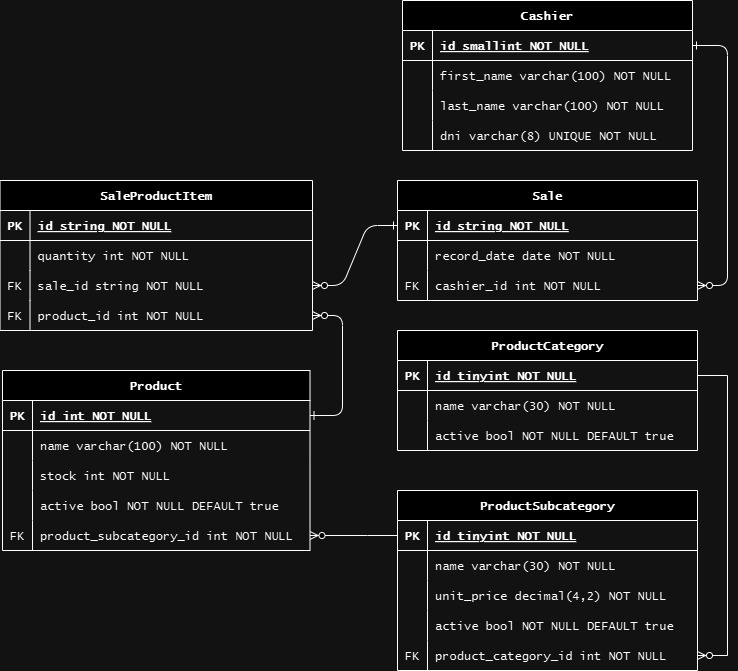
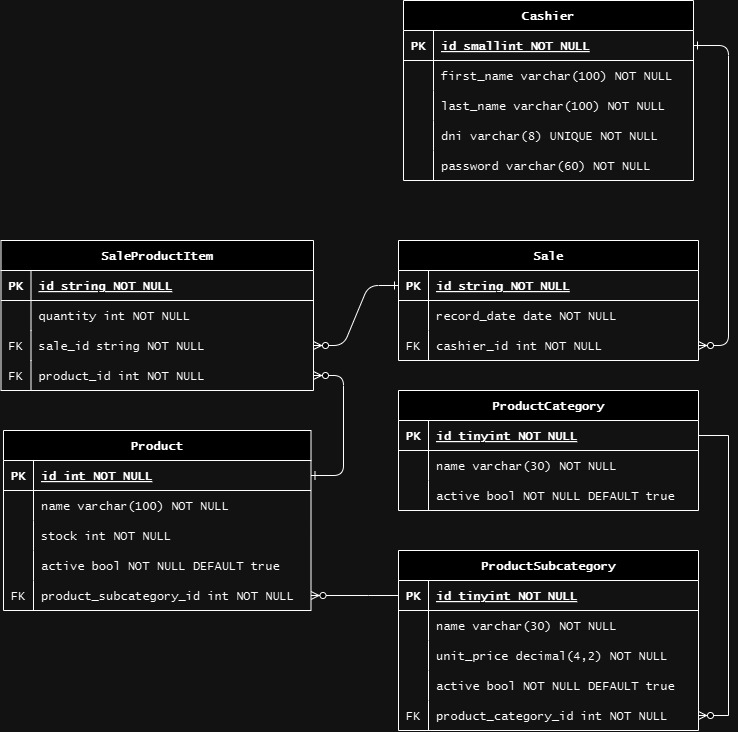
Agregando documentación de la api

diff --git a/src/migrations/1722281006973-InsertProducts.ts b/src/migrations/1722281006973-InsertProducts.ts
@@ -4,8 +4,6 @@ import Product from "../shared/infrastructure/persistence/entities/Product.entit
 export class Products1722281006973 implements MigrationInterface {
 
 	public async up(queryRunner: QueryRunner): Promise<void> {
-		const movieCategory = { id: 1 };
-		const videogameCategory = { id: 2 };
 		const dvdSubcategory = { id: 1 };
 		const bluraySubcategory = { id: 2 };
 		const ps1Subcategory = { id: 3 };
@@ -18,105 +16,90 @@ export class Products1722281006973 implements MigrationInterface {
 				id: 1,
 				name: "Crash Bandicoot",
 				stock: 17,
-				category: videogameCategory,
 				subcategory: ps1Subcategory
 			},
 			{
 				id: 2,
 				name: "God of war II",
 				stock: 12,
-				category: videogameCategory,
 				subcategory: ps2Subcategory
 			},
 			{
 				id: 3,
 				name: "Super Smash Bross Brawl",
 				stock: 8,
-				category: videogameCategory,
 				subcategory: wiiSubcategory
 			},
 			{
 				id: 4,
 				name: "Transformers",
 				stock: 10,
-				category: movieCategory,
 				subcategory: dvdSubcategory
 			},
 			{
 				id: 5,
 				name: "Shrek",
 				stock: 8,
-				category: movieCategory,
 				subcategory: bluraySubcategory
 			},
 			{
 				id: 6,
 				name: "Naruto Shippuden Ultimate Ninja Storm 3",
 				stock: 10,
-				category: videogameCategory,
 				subcategory: ps3Subcategory
 			},
 			{
 				id: 7,
 				name: "Naruto Shippuden Ultimate Ninja Storm 2",
 				stock: 13,
-				category: videogameCategory,
 				subcategory: xbox360Subcategory
 			},
 			{
 				id: 8,
 				name: "DBZ Saga de Cell",
 				stock: 13,
-				category: movieCategory,
 				subcategory: dvdSubcategory
 			},
 			{
 				id: 9,
 				name: "Kingdom Hearts",
 				stock: 18,
-				category: videogameCategory,
 				subcategory: ps2Subcategory
 			},
 			{
 				id: 10,
 				name: "Transformers",
 				stock: 7,
-				category: movieCategory,
 				subcategory: bluraySubcategory
 			},
 			{
 				id: 11,
 				name: "Batman: Arkham City",
 				stock: 9,
-				category: videogameCategory,
 				subcategory: ps3Subcategory
 			},
 			{
 				id: 12,
 				name: "God of War I",
 				stock: 14,
-				category: videogameCategory,
 				subcategory: ps2Subcategory
 			},
 			{
 				id: 13,
 				name: "Dragon Ball Z Budokai Tenkaichi 3",
 				stock: 15,
-				category: videogameCategory,
-				subcategory: ps1Subcategory
+				subcategory: ps2Subcategory
 			},
 			{
 				id: 14,
 				name: "Naruto Ultimate Ninja Storm 3",
 				stock: 11,
-				category: videogameCategory,
 				subcategory: ps3Subcategory
 			},
 			{
 				id: 15,
 				name: "Mario Party 9",
 				stock: 25,
-				category: videogameCategory,
 				subcategory: wiiSubcategory
 			}
 		]);

diff --git a/src/migrations/1722278685381-InsertCashiers.ts b/src/migrations/1722278685381-InsertCashiers.ts
@@ -8,13 +8,17 @@ export class Cashiers1722278685381 implements MigrationInterface {
 				id: 1,
 				firstName: "Ausubel",
 				lastName: "Velasquez",
-				dni: "85900893"
+				dni: "85900893",
+				//password = avelasquez123
+				password: "$2a$12$i2jw.eJl9h665fC51kV2y.t401Mayf7L28ORKTplaqKNUW3b03x2e"
 			},
 			{
 				id: 2,
 				firstName: "Jose",
 				lastName: "Casma",
-				dni: "75958521"
+				dni: "75958521",
+				//password = jcasma123
+				password: "$2a$12$x19kmL3KjHxARoh/R75JD.YnICVOTSTMPHXgsz8H1FffAz6Kp4s7W"
 			}
 		]);
 	}

diff --git a/src/shared/infrastructure/persistence/entities/Cashier.entity.ts b/src/shared/infrastructure/persistence/entities/Cashier.entity.ts
@@ -25,4 +25,10 @@ export default class Cashier {
 		length: 8
 	})
 	public dni: string;
+
+	@Column({
+		type: "varchar",
+		length: 60
+	})
+	public password: string;
 }

diff --git a/api_docs.md b/api_docs.md
@@ -1,0 +1,245 @@
+# Documentación de la API
+
+## Autenticación
+
+```js
+POST /auth/login
+```
+Autentica al cajero en el sistema.
+
+* Request
+```json
+{
+	"dni": "85900893",
+	"password": "$2a$12$i2jw.eJl9h665fC51kV2y.t401Mayf7L28ORKTplaqKNUW3b03x2e"
+}
+```
+* Response (Autenticado)
+```json
+{
+	"message": "success",
+	"data": {
+		"user": {
+			"id": 1,
+			"firstName": "Ausubel",
+			"lastName": "Velasquez",
+			"dni": "85900893"
+		},
+		"token": "eyJhbGciOiJIUzI1NiIsInR5cCI6IkpXVCJ9.eyJzdWIiOiIxMjM0NTY3ODkwIiwibmFtZSI6IkpvaG4gRG9lIiwiaWF0IjoxNTE2MjM5MDIyfQ.SflKxwRJSMeKKF2QT4fwpMeJf36POk6yJV_adQssw5c"
+	}
+}
+```
+* Response (Credenciales inválidas)
+```json
+{
+	"message": "invalid_credentials",
+	"data": null
+}
+```
+
+## Inventario
+
+```js
+GET /inventory/products
+```
+Obtiene el listado de productos para el inventario.
+
+* Response
+```json
+{
+	"message": "success",
+	"data": {
+		"products": [
+			{
+				"id": 1,
+				"name": "Crash Bandicoot",
+				"stock": 17,
+				"active": true,
+				"category": {
+					"id": 2,
+					"name": "Videojuego"
+				},
+				"subcategory": {
+					"id": 3,
+					"name": "PS1",
+					"unitPrice": 1.50
+				}
+			}
+		]
+	}
+}
+```
+
+```js
+GET /inventory/product-categories
+```
+Obtiene el listado de categorías.
+
+* Response
+```json
+{
+	"message": "success",
+	"data": {
+		"categories": [
+			{
+				"id": 1,
+				"name": "Película"
+			}
+		]
+	}
+}
+```
+
+```js
+GET /inventory/product-subcategories
+```
+Obtiene el listado de subcategorías.
+
+* Response
+```json
+{
+	"message": "success",
+	"data": {
+		"subcategories": [
+			{
+				"id": 1,
+				"name": "DVD",
+				"unitPrice": 1.50,
+				"categoryId": 1
+			}
+		]
+	}
+}
+```
+
+```js
+PATCH /inventory/products/:productId/stock
+```
+Suministra o reduce la cantidad de un producto.
+
+* Request
+```json
+{
+	"quantity": 5
+}
+```
+* Response
+```json
+{
+	"message": "success",
+	"data": null
+}
+```
+
+```js
+PATCH /inventory/products/:productId/activate
+```
+Activa o desactiva un producto.
+
+* Request
+```json
+{
+	"activate": true
+}
+```
+* Response
+```json
+{
+	"message": "success",
+	"data": null
+}
+```
+
+```js
+PUT /inventory/products/:productId
+```
+Actualiza un producto.
+
+* Request
+```json
+{
+	"name": "Crash Bandicoot",
+	"categoryId": 2,
+	"sucategoryId": 3
+}
+```
+* Response
+```json
+{
+	"message": "success",
+	"data": null
+}
+```
+
+## Ventas
+
+```js
+GET /sales
+```
+Obtiene todo el registro de ventas.
+
+* Response
+```json
+{
+	"message": "success",
+	"data": {
+		"sales": [
+			{
+				"id": "2aefc720-db2e-4ff7-96f9-28203e304df3",
+				"recordDate": "2024-07-24T16:07:00.000Z",
+				"items": [
+					{
+						"id": 3,
+						"quantity": 2,
+						"product": "Dragon Ball Z Budokai Tenkaichi 3",
+						"category": "Videojuego",
+						"subcategory": "PS2",
+						"unitPrice": 2.00
+					}
+				],
+				"cashier": "Jose Casma"
+			}
+		]
+	}
+}
+```
+
+
+```js
+PUT /sales
+```
+Registra una venta.
+
+* Request
+```json
+{
+	"id": "2aefc720-db2e-4ff7-96f9-28203e304df3",
+	"products": [
+		{ id: 3, quantity: 2 }
+	]
+}
+```
+
+* Response
+```json
+{
+	"message": "success",
+	"data": {
+		"sale": {
+			"id": "2aefc720-db2e-4ff7-96f9-28203e304df3",
+			"recordDate": "2024-07-24T16:07:00.000Z",
+			"items": [
+				{
+					"id": 3,
+					"quantity": 2,
+					"product": "Dragon Ball Z Budokai Tenkaichi 3",
+					"category": "Videojuego",
+					"subcategory": "PS2",
+					"unitPrice": 2.00
+				}
+			],
+			"cashier": "Jose Casma"
+		}
+	}
+}
+```
